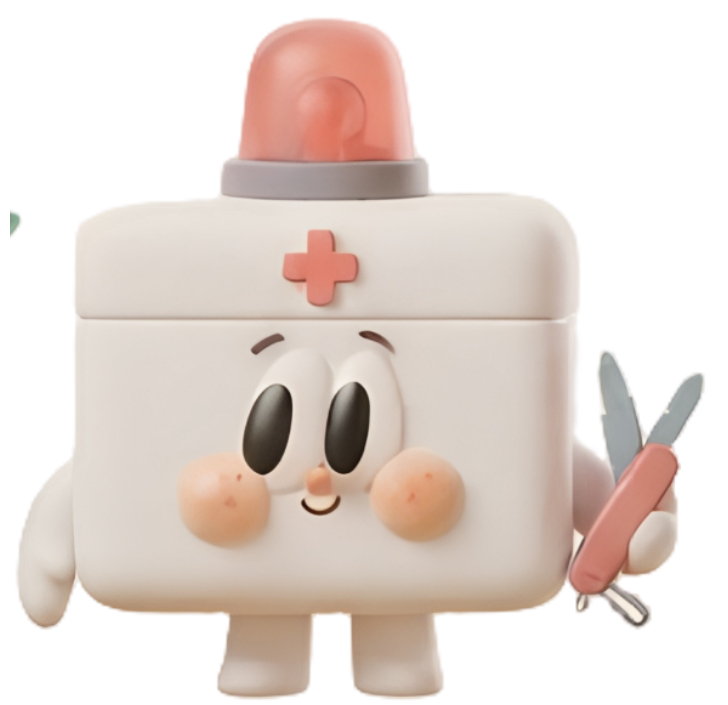
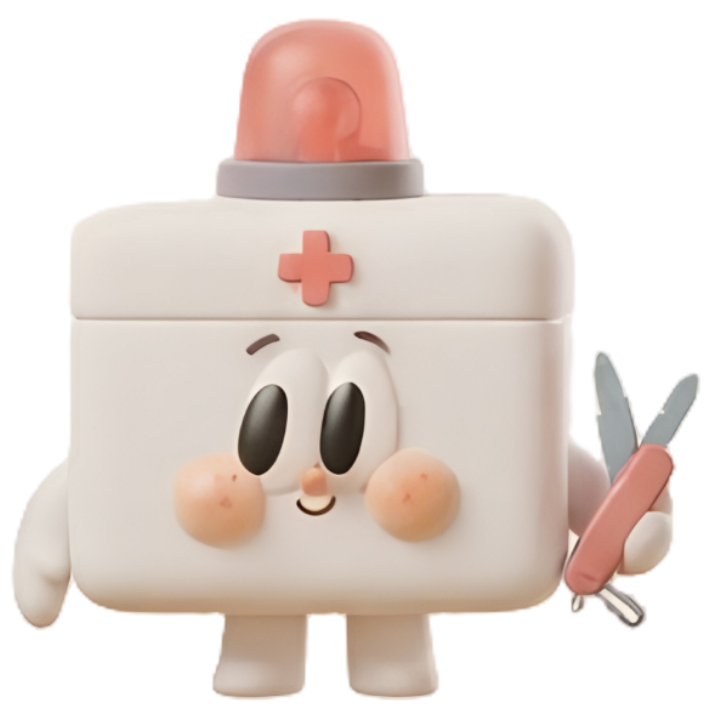
콜드 스타트 완화와 문제 해결사 이미지 교체
- 입장 화면 진입 시 /api/warmup 을 호출해 함수 기동과 Firestore 연결을 미리 끝내둠
  (첫 요청에 붙던 0.6~1초의 콜드 스타트 지연을 입력 시간 동안 흡수)
- 수정된 문제 해결사 캐릭터 이미지 반영

diff --git a/src/components/TestFlow.tsx b/src/components/TestFlow.tsx
@@ -1,6 +1,6 @@
 "use client";
 
-import { useMemo, useRef, useState } from "react";
+import { useEffect, useMemo, useRef, useState } from "react";
 import { CHARACTERS, CHARACTER_LIST, TYPE_CODES, type TypeCode } from "@/lib/characters";
 import { QUESTIONS, TOTAL_QUESTIONS } from "@/lib/questions";
 import ResultView, { type ResultData } from "./ResultView";
@@ -40,6 +40,11 @@ export default function TestFlow({ onAdmin }: { onAdmin: () => void }) {
   const [tiedTypes, setTiedTypes] = useState<TypeCode[]>([]);
   const [tiePick, setTiePick] = useState<TypeCode | null>(null);
   const [result, setResult] = useState<ResultData | null>(null);
+
+  // 입장 화면이 열리는 즉시 서버 함수를 깨워 둔다. 코드·이름을 입력하는 동안 준비가 끝난다.
+  useEffect(() => {
+    fetch("/api/warmup").catch(() => undefined);
+  }, []);
 
   const question = QUESTIONS[index];
   const draft = answers[question?.questionId ?? ""] ?? {};

diff --git a/src/app/api/warmup/route.ts b/src/app/api/warmup/route.ts
@@ -1,0 +1,18 @@
+import { NextResponse } from "next/server";
+import { getStore } from "@/lib/store";
+
+export const runtime = "nodejs";
+export const dynamic = "force-dynamic";
+
+/**
+ * 콜드 스타트 완화용. 화면이 열리는 순간 호출해 함수 기동과 Firestore 연결을 미리 끝내둔다.
+ * 어떤 데이터도 반환하지 않으며, 존재하지 않는 코드를 한 번 조회할 뿐이다.
+ */
+export async function GET() {
+  try {
+    await getStore().getSession("____warmup");
+  } catch {
+    // 워밍업 실패는 무시한다.
+  }
+  return NextResponse.json({ ok: true });
+}
